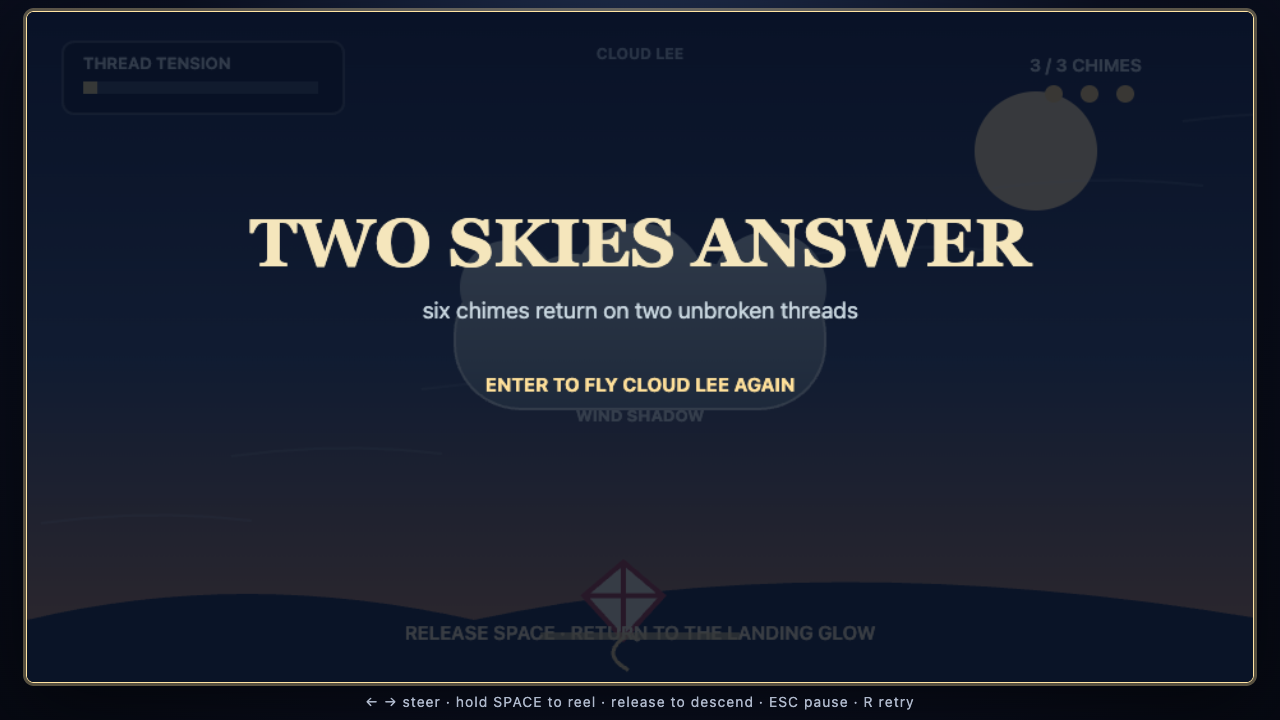
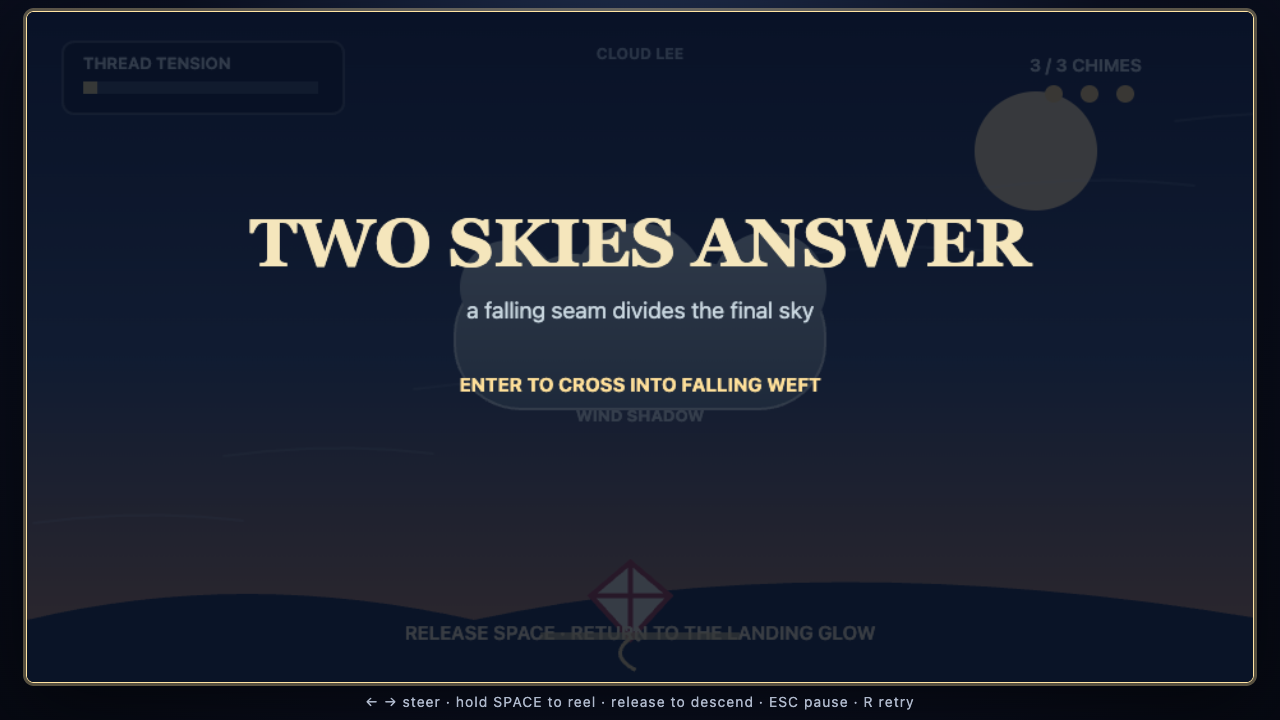
feat(ver11): add Falling Weft airspace

Changed region(s): [[0.3125, 0.3972, 0.6875, 0.4583], [0.3438, 0.5194, 0.6562, 0.55], [0.4375, 0.7944, 0.5312, 0.9472]]

diff --git a/ver11/game/src/model.js b/ver11/game/src/model.js
@@ -12,6 +12,7 @@ export const AIRSPACES = [
       { x: 405, y: 116, name: "HIGH CHIME" },
     ],
     clouds: [],
+    downdrafts: [],
     gustPush: 125,
   },
   {
@@ -23,7 +24,20 @@ export const AIRSPACES = [
       { x: 710, y: 108, name: "HIGH CHIME" },
     ],
     clouds: [{ x: 335, y: 174, width: 290, height: 172 }],
+    downdrafts: [],
     gustPush: 168,
+  },
+  {
+    name: "FALLING WEFT",
+    subtitle: "cross the sinking air without losing the line",
+    ribbons: [
+      { x: 250, y: 372, name: "LOW CHIME" },
+      { x: 735, y: 238, name: "DRIFT CHIME" },
+      { x: 250, y: 102, name: "ZENITH CHIME" },
+    ],
+    clouds: [{ x: 610, y: 156, width: 250, height: 158 }],
+    downdrafts: [{ x: 390, y: 78, width: 180, height: 350, sink: 58 }],
+    gustPush: 178,
   },
 ];
 
@@ -38,6 +52,13 @@ export function isSheltered(game) {
   return airspaceFor(game).clouds.some((cloud) => (
     game.x >= cloud.x && game.x <= cloud.x + cloud.width
     && game.y >= cloud.y && game.y <= cloud.y + cloud.height
+  ));
+}
+
+export function downdraftAt(game) {
+  return airspaceFor(game).downdrafts.find((draft) => (
+    game.x >= draft.x && game.x <= draft.x + draft.width
+    && game.y >= draft.y && game.y <= draft.y + draft.height
   ));
 }
 
@@ -70,11 +91,12 @@ export function startGame(game) {
   if (game.mode === "title" || game.mode === "lost" || game.mode === "won") {
     const nextAirspace = game.mode === "won" && game.airspace < AIRSPACES.length - 1 ? game.airspace + 1 : game.airspace;
     const fresh = createGame(nextAirspace);
-    const enteringCloudLee = nextAirspace === 1 && game.airspace !== nextAirspace;
+    const changedAirspace = game.airspace !== nextAirspace;
+    const entryMessages = ["HOLD SPACE TO CLIMB", "SILVER CLOUDS SHELTER THE THREAD", "SINKING AIR STEALS YOUR HEIGHT"];
     Object.assign(game, fresh, {
       mode: "playing",
-      message: enteringCloudLee ? "SILVER CLOUDS SHELTER THE THREAD" : "HOLD SPACE TO CLIMB",
-      messageTime: enteringCloudLee ? 3.8 : 2.8,
+      message: changedAirspace ? entryMessages[nextAirspace] : "HOLD SPACE TO CLIMB",
+      messageTime: changedAirspace ? 3.8 : 2.8,
     });
   }
   return game;
@@ -102,6 +124,7 @@ export function update(game, input, dt = FIXED_STEP) {
   const wind = windAt(game.elapsed);
   const airspace = airspaceFor(game);
   const sheltered = isSheltered(game);
+  const downdraft = downdraftAt(game);
   const steer = Math.max(-1, Math.min(1, input.steer || 0));
   const windPush = wind.phase === "gust" && !sheltered ? wind.direction * airspace.gustPush : 0;
   game.vx += (steer * 310 + windPush - game.vx * 3.8) * step;
@@ -109,10 +132,10 @@ export function update(game, input, dt = FIXED_STEP) {
   game.x = Math.max(48, Math.min(WIDTH - 48, game.x));
 
   if (input.reel) {
-    game.y -= 82 * step;
+    game.y -= (82 - (downdraft?.sink || 0)) * step;
     game.tension += (wind.phase === "gust" && !sheltered ? 0.58 : 0.13) * step;
   } else {
-    game.y += 62 * step;
+    game.y += (62 + (downdraft?.sink || 0)) * step;
     game.tension -= 0.52 * step;
   }
   game.y = Math.max(62, Math.min(488, game.y));
@@ -150,10 +173,11 @@ export function accessibleStatus(game) {
   if (game.mode === "title") return "GALE THREAD title. Press Enter to begin.";
   if (game.mode === "paused") return "Paused. Press Escape to continue.";
   if (game.mode === "lost") return "Thread parted. Press Enter or R to retry.";
-  if (game.mode === "won" && game.airspace < AIRSPACES.length - 1) return "All three chimes returned from Amber Reach. Press Enter to cross into Cloud Lee.";
-  if (game.mode === "won") return "All three chimes returned from Cloud Lee. Two skies answer. Press Enter to fly again.";
+  if (game.mode === "won" && game.airspace < AIRSPACES.length - 1) return `All three chimes returned from ${airspaceFor(game).name}. Press Enter to cross into ${AIRSPACES[game.airspace + 1].name}.`;
+  if (game.mode === "won") return "All three chimes returned from Falling Weft. Three skies answer. Press Enter to fly again.";
   const wind = windAt(game.elapsed);
   const direction = wind.direction > 0 ? "right" : "left";
   const shelter = isSheltered(game) ? " Sheltered by cloud." : "";
-  return `Flying in ${airspaceFor(game).name}. ${game.ribbons.filter(Boolean).length} of 3 chimes. Tension ${Math.round(game.tension * 100)} percent. Wind ${wind.phase}, ${direction}.${shelter}`;
+  const sinking = downdraftAt(game) ? " In sinking air." : "";
+  return `Flying in ${airspaceFor(game).name}. ${game.ribbons.filter(Boolean).length} of 3 chimes. Tension ${Math.round(game.tension * 100)} percent. Wind ${wind.phase}, ${direction}.${shelter}${sinking}`;
 }

diff --git a/ver11/game/src/main.js b/ver11/game/src/main.js
@@ -1,5 +1,5 @@
 import "./style.css";
-import { WIDTH, HEIGHT, FIXED_STEP, AIRSPACES, accessibleStatus, airspaceFor, createGame, isSheltered, retry, startGame, togglePause, update, windAt } from "./model.js";
+import { WIDTH, HEIGHT, FIXED_STEP, AIRSPACES, accessibleStatus, airspaceFor, createGame, downdraftAt, isSheltered, retry, startGame, togglePause, update, windAt } from "./model.js";
 
 const canvas = document.querySelector("#game");
 const ctx = canvas.getContext("2d");
@@ -82,6 +82,28 @@ function drawClouds() {
   }
 }
 
+function drawDowndrafts() {
+  for (const draft of airspaceFor(game).downdrafts) {
+    const gradient = ctx.createLinearGradient(draft.x, draft.y, draft.x + draft.width, draft.y);
+    gradient.addColorStop(0, "#8fbac500"); gradient.addColorStop(0.2, "#8fbac529");
+    gradient.addColorStop(0.8, "#8fbac529"); gradient.addColorStop(1, "#8fbac500");
+    ctx.fillStyle = gradient; ctx.fillRect(draft.x, draft.y, draft.width, draft.height);
+    ctx.save(); ctx.strokeStyle = "#c5edf0aa"; ctx.lineWidth = 3;
+    for (let i = 0; i < 5; i++) {
+      const x = draft.x + 25 + i * 32;
+      const offset = (game.elapsed * 90 + i * 63) % (draft.height + 55);
+      const y = draft.y - 25 + offset;
+      ctx.beginPath(); ctx.moveTo(x - 7, y - 34); ctx.quadraticCurveTo(x + 8, y - 10, x, y + 18);
+      ctx.lineTo(x - 8, y + 7); ctx.moveTo(x, y + 18); ctx.lineTo(x + 10, y + 5); ctx.stroke();
+    }
+    ctx.restore();
+    if (game.messageTime <= 0) {
+      ctx.fillStyle = "#d8f4f2"; ctx.font = "700 12px system-ui"; ctx.textAlign = "center";
+      ctx.fillText("SINKING AIR", draft.x + draft.width / 2, draft.y + 18);
+    }
+  }
+}
+
 function drawWind() {
   const wind = windAt(game.elapsed);
   if (game.mode === "title") return;
@@ -131,7 +153,8 @@ function drawHud() {
   for (let i = 0; i < 3; i++) { ctx.fillStyle = game.ribbons[i] ? "#ffd57c" : "#53617a"; ctx.beginPath(); ctx.arc(804 + i * 28, 66, 7, 0, Math.PI * 2); ctx.fill(); }
   if (game.messageTime > 0) { ctx.textAlign = "center"; ctx.fillStyle = "#fff0c7"; ctx.font = "700 18px system-ui"; ctx.fillText(game.message, WIDTH / 2, 104); }
   ctx.textAlign = "center"; ctx.fillStyle = isSheltered(game) ? "#f4fbff" : "#aebed0"; ctx.font = "700 12px system-ui";
-  ctx.fillText(`${airspaceFor(game).name}${isSheltered(game) ? " · SHELTERED" : ""}`, WIDTH / 2, 38);
+  const condition = isSheltered(game) ? " · SHELTERED" : downdraftAt(game) ? " · SINKING" : "";
+  ctx.fillText(`${airspaceFor(game).name}${condition}`, WIDTH / 2, 38);
   if (game.ribbons.every(Boolean)) { ctx.textAlign = "center"; ctx.fillStyle = "#fff0c7"; ctx.font = "600 15px system-ui"; ctx.fillText("RELEASE SPACE · RETURN TO THE LANDING GLOW", WIDTH / 2, 506); }
   ctx.fillStyle = "#f6dc93aa"; ctx.fillRect(402, 500, 156, 6);
 }
@@ -144,14 +167,15 @@ function overlay(title, subtitle, prompt) {
 }
 
 function draw() {
-  drawSky(); drawWind(); drawClouds();
+  drawSky(); drawWind(); drawDowndrafts(); drawClouds();
   airspaceFor(game).ribbons.forEach((r, i) => drawRibbon(r, game.ribbons[i], i));
   if (game.mode !== "title") { drawKite(); drawHud(); }
   if (game.mode === "title") overlay("GALE THREAD", "read the gust · mind the thread · bring three chimes home", "PRESS ENTER TO LAUNCH");
   if (game.mode === "paused") overlay("WIND HELD", "the thread waits with you", "ESC TO CONTINUE · R TO RETRY");
   if (game.mode === "lost") overlay("THREAD PARTED", "the gale took the line, not the lesson", "ENTER OR R TO TRY AGAIN");
-  if (game.mode === "won" && game.airspace < AIRSPACES.length - 1) overlay("FIRST CHIMES RETURN", "the silver cloud waits beyond the open wind", "ENTER TO CROSS INTO CLOUD LEE");
-  if (game.mode === "won" && game.airspace === AIRSPACES.length - 1) overlay("TWO SKIES ANSWER", "six chimes return on two unbroken threads", "ENTER TO FLY CLOUD LEE AGAIN");
+  if (game.mode === "won" && game.airspace === 0) overlay("FIRST CHIMES RETURN", "the silver cloud waits beyond the open wind", "ENTER TO CROSS INTO CLOUD LEE");
+  if (game.mode === "won" && game.airspace === 1) overlay("TWO SKIES ANSWER", "a falling seam divides the final sky", "ENTER TO CROSS INTO FALLING WEFT");
+  if (game.mode === "won" && game.airspace === AIRSPACES.length - 1) overlay("THREE SKIES ANSWER", "nine chimes return on three unbroken threads", "ENTER TO FLY FALLING WEFT AGAIN");
 }
 
 function frame(now) {

diff --git a/ver11/game/e2e/gale-thread.spec.js b/ver11/game/e2e/gale-thread.spec.js
@@ -16,7 +16,7 @@ async function launch(page) {
 async function pilot(page, targets, screenshotName) {
   let heldHorizontal = null;
   let reelHeld = false;
-  let shelteredEvidenceTaken = false;
+  let conditionEvidenceTaken = false;
 
   for (let step = 0; step < 600; step++) {
     const state = await snapshot(page);
@@ -32,23 +32,26 @@ async function pilot(page, targets, screenshotName) {
     }
     const cyclePhase = state.elapsed % 6;
     const gusting = cyclePhase >= 4.2;
-    const sheltered = state.airspace === 1 && state.x >= 335 && state.x <= 625 && state.y >= 174 && state.y <= 346;
+    const sheltered = (state.airspace === 1 && state.x >= 335 && state.x <= 625 && state.y >= 174 && state.y <= 346)
+      || (state.airspace === 2 && state.x >= 610 && state.x <= 860 && state.y >= 156 && state.y <= 314);
     const needClimb = count < 3 && state.y > target.y + 5;
     const shouldReel = needClimb && state.tension < (gusting && !sheltered ? 0.42 : 0.78);
     if (reelHeld !== shouldReel) {
       if (shouldReel) await page.keyboard.down("Space"); else await page.keyboard.up("Space");
       reelHeld = shouldReel;
     }
-    if (screenshotName && sheltered && gusting && !shelteredEvidenceTaken) {
+    const inDowndraft = state.airspace === 2 && state.x >= 390 && state.x <= 570 && state.y >= 78 && state.y <= 428;
+    const evidenceCondition = state.airspace === 2 ? inDowndraft : sheltered && gusting;
+    if (screenshotName && evidenceCondition && !conditionEvidenceTaken) {
       await page.screenshot({ path: evidence(screenshotName) });
-      shelteredEvidenceTaken = true;
+      conditionEvidenceTaken = true;
     }
     await page.waitForTimeout(100);
   }
   if (heldHorizontal) await page.keyboard.up(heldHorizontal);
   if (reelHeld) await page.keyboard.up("Space");
   await expect.poll(async () => (await snapshot(page)).mode).toBe("won");
-  return shelteredEvidenceTaken;
+  return conditionEvidenceTaken;
 }
 
 test("title, pause, and thread failure are keyboard reachable", async ({ page }) => {
@@ -83,5 +86,19 @@ test("the second airspace uses cloud shelter and remains keyboard-completable", 
   const sawShelter = await pilot(page, [{ x: 720, y: 382 }, { x: 245, y: 238 }, { x: 710, y: 108 }], "m2-cloud-lee-sheltered.png");
   expect(sawShelter).toBe(true);
   await page.screenshot({ path: evidence("m2-cloud-lee-won.png") });
-  await expect(page.locator("canvas")).toHaveAttribute("aria-label", /Two skies answer/);
+  await expect(page.locator("canvas")).toHaveAttribute("aria-label", /cross into FALLING WEFT/i);
+});
+
+test("the third airspace crosses sinking air and completes the M2 route", async ({ page }) => {
+  await launch(page);
+  await pilot(page, [{ x: 300, y: 382 }, { x: 690, y: 252 }, { x: 405, y: 116 }]);
+  await page.keyboard.press("Enter");
+  await pilot(page, [{ x: 720, y: 382 }, { x: 245, y: 238 }, { x: 710, y: 108 }]);
+  await page.keyboard.press("Enter");
+  await expect.poll(async () => (await snapshot(page)).airspace).toBe(2);
+  await page.screenshot({ path: evidence("m2-falling-weft-entry.png") });
+  const crossedDowndraft = await pilot(page, [{ x: 250, y: 372 }, { x: 735, y: 238 }, { x: 250, y: 102 }], "m2-falling-weft-sinking.png");
+  expect(crossedDowndraft).toBe(true);
+  await page.screenshot({ path: evidence("m2-falling-weft-won.png") });
+  await expect(page.locator("canvas")).toHaveAttribute("aria-label", /Three skies answer/);
 });

diff --git a/ver11/game/tests/model.test.js b/ver11/game/tests/model.test.js
@@ -1,6 +1,6 @@
 import test from "node:test";
 import assert from "node:assert/strict";
-import { AIRSPACES, RIBBONS, accessibleStatus, createGame, isSheltered, retry, startGame, togglePause, update, windAt } from "../src/model.js";
+import { AIRSPACES, RIBBONS, accessibleStatus, createGame, downdraftAt, isSheltered, retry, startGame, togglePause, update, windAt } from "../src/model.js";
 
 function advance(game, seconds, input = {}) {
   const steps = Math.ceil(seconds * 60);
@@ -79,6 +79,36 @@ test("Cloud Lee shelter blocks gust push and excess reel tension", () => {
 test("Cloud Lee uses a distinct reachable chime route", () => {
   const game = createGame(1); startGame(game);
   for (const ribbon of AIRSPACES[1].ribbons) {
+    game.x = ribbon.x; game.y = ribbon.y; update(game, {}, 1 / 60);
+  }
+  game.x = 480; game.y = 472; const events = update(game, {}, 1 / 60);
+  assert.equal(game.mode, "won"); assert.ok(events.some((event) => event.type === "won"));
+});
+
+test("winning Cloud Lee advances into Falling Weft", () => {
+  const game = createGame(1); startGame(game); game.mode = "won"; startGame(game);
+  assert.equal(game.mode, "playing"); assert.equal(game.airspace, 2);
+  assert.match(game.message, /SINKING AIR/);
+});
+
+test("Falling Weft downdraft makes releasing lose more height", () => {
+  const clear = createGame(2); startGame(clear); clear.x = 650; clear.y = 250;
+  const sinking = createGame(2); startGame(sinking); sinking.x = 480; sinking.y = 250;
+  assert.equal(downdraftAt(clear), undefined); assert.ok(downdraftAt(sinking));
+  advance(clear, 0.5, { reel: false }); advance(sinking, 0.5, { reel: false });
+  assert.ok(sinking.y > clear.y + 25);
+  assert.match(accessibleStatus(sinking), /sinking air/i);
+});
+
+test("Falling Weft downdraft slows climbing but does not trap the kite", () => {
+  const game = createGame(2); startGame(game); game.x = 480; game.y = 300;
+  const before = game.y; advance(game, 1, { reel: true });
+  assert.ok(game.y < before); assert.ok(game.y > before - 35);
+});
+
+test("Falling Weft chimes and landing remain reachable", () => {
+  const game = createGame(2); startGame(game);
+  for (const ribbon of AIRSPACES[2].ribbons) {
     game.x = ribbon.x; game.y = ribbon.y; update(game, {}, 1 / 60);
   }
   game.x = 480; game.y = 472; const events = update(game, {}, 1 / 60);

diff --git a/ver11/docs/status.md b/ver11/docs/status.md
@@ -5,7 +5,7 @@
 ## 現在状態
 
 - 現在版: v11.0 (`ver11/`)
-- 段階: M0・M1完了、M2進行中。第1空域から第2空域まで連続プレイ可能
+- 段階: M0・M1完了、M2進行中。全3空域を連続プレイ可能
 - 過去版変更: v10.1最終批評のみ。既存の未コミット`ver07.1/`差分を保持
 
 ## 完成条件
@@ -28,12 +28,14 @@
 - 空域の片配置、雲帯、突風強度をデータ化し、雲内判定を規則、表示、accessible nameで共有した。
 - 単体12/12、構文検査、production build、Chrome E2E 3/3に合格した。実キー入力で第1空域から第2空域へ進み、突風中に雲帯を利用して計6片を回収し着地した。
 - `m2-cloud-lee-entry.png`、`m2-cloud-lee-sheltered.png`、`m2-cloud-lee-won.png`を目視し、風線を遮る雲、`SHELTERED`表示、片、凧、糸、終結果に欠けや判別不能がないことを確認した。
+- 第3空域「FALLING WEFT」を追加した。中央の下降気流では巻き上げが鈍り、解放中は約2倍の速さで下降するため、張力を逃がす安全入力にも高度の代償が生まれる。右上の雲帯と左右交互の片配置により、既存規則を同時に使う。
+- 単体16/16、構文検査、production build、Chrome E2E 4/4に合格した。実キー入力で3空域9片、雲帯、下降気流横断、最終着地まで通した。
+- `m2-falling-weft-entry.png`、`m2-falling-weft-sinking.png`、`m2-falling-weft-won.png`を目視し、下降矢印、雲、片、凧、糸、状態、最終結果を判別できることを確認した。導入文と常設ラベルの重なりは、導入中に常設ラベルを隠して解消した。
 
 ## 未解決課題
 
-- 2空域だけで、雲帯を理解した後の第3段階がない。
 - 音量と動き軽減、進行保存は未実装。
 
 ## 次の最優先作業
 
-M2第3空域を設計する。既存の予告・張力・雲帯を組み合わせつつ、新規則は下降気流の通路一つに絞り、緩めて安全を取る入力にも位置取りの代償を持たせる。
+M2の設定と保存を実装する。音量・動き軽減をキーボードで変更できる設定画面と、到達済み空域・設定のlocalStorage保存、破損時の安全な初期化を一つの製品機能として検証する。

diff --git a/ver11/README.md b/ver11/README.md
@@ -6,8 +6,8 @@
 
 - M0 白紙企画比較・独立性確認: 完了
 - M1 中核縦切り: 完了。1空域、突風予告、張力、3片、帰還、切断、再挑戦を実装・検証済み
-- M2 段階導入: 進行中。第2空域「CLOUD LEE」と横風を遮る雲帯を実装済み
-- 単体12/12、構文検査、production build、Chrome E2E 3/3に合格
+- M2 段階導入: 進行中。3空域を連続プレイでき、雲帯と下降気流を実装済み
+- 単体16/16、構文検査、production build、Chrome E2E 4/4に合格
 
 ## 起動
 
@@ -17,9 +17,9 @@ npm install
 npm run dev
 ```
 
-Enterで開始する。左右キーまたはA/Dで凧を操り、Spaceを押している間は糸を巻いて上昇する。Spaceを離すと糸を緩めて下降する。空の帯に表示される突風予告中に進路を整え、突風が吹いている間は巻き続けない。三つの風鈴片を集めたら、地上中央の着地点へ降りる。第2空域では銀色の雲帯へ入ると突風を遮れる。Escapeでポーズ、Rで再挑戦する。
+Enterで開始する。左右キーまたはA/Dで凧を操り、Spaceを押している間は糸を巻いて上昇する。Spaceを離すと糸を緩めて下降する。空の帯に表示される突風予告中に進路を整え、突風が吹いている間は巻き続けない。三つの風鈴片を集めたら、地上中央の着地点へ降りる。第2空域では銀色の雲帯へ入ると突風を遮れる。第3空域では下降気流の矢印帯を横切る間、上昇が鈍り、糸を緩めると高度を速く失う。Escapeでポーズ、Rで再挑戦する。
 
-`npm run verify`で規則テスト、構文検査、production build、Chrome E2Eをまとめて実行する。E2Eは実キー入力でポーズ、糸切断、再挑戦、第1・第2空域の6片回収、雲帯利用、着地までを検証する。
+`npm run verify`で規則テスト、構文検査、production build、Chrome E2Eをまとめて実行する。E2Eは実キー入力でポーズ、糸切断、再挑戦、全3空域の9片回収、雲帯利用、下降気流横断、着地までを検証する。
 
 ## 独立性
 

diff --git a/ver11/docs/log.md b/ver11/docs/log.md
@@ -19,3 +19,10 @@
 - 空域データ、勝利後の連続遷移、雲内の横力・追加張力遮断、銀青の雲描画、`SHELTERED` HUDとaccessible nameを実装した。
 - 単体12/12、構文検査、production build、Chrome E2E 3/3に合格した。実キー適応操縦で第1空域の3片を帰還後、第2空域へ進み、突風中に雲帯へ入ってさらに3片を回収・帰還した。
 - 第2空域の入口、突風中の雲内、勝利を撮影して目視した。雲は背後の風線を遮り、安全地帯の形と状態表示を色だけに依存せず判別できる。第2空域を完了し、次は下降気流を一規則だけ加えた第3空域を作る。
+
+## 2026-11-06 — M2 第3空域 FALLING WEFT
+
+- 新規則を中央の下降気流帯一つに限定した。帯内では巻いても上昇が遅く、緩めると通常のほぼ2倍で下降する。左右交互の3片で帯を横断させ、突風から張力を逃がす入力と高度維持を競合させた。
+- 右上に雲帯を併設し、既存の突風予告、張力、風下の安全地帯を同時に使う第3段階へ発展させた。下降矢印、帯、HUD、accessible nameから同じ領域判定を伝える。
+- 単体16/16、構文検査、production build、Chrome E2E 4/4に合格した。実キー入力で第1空域から全9片を回収し、下降気流を横断して最終着地まで約52秒で通した。
+- 入口、下降気流内、最終勝利を撮影して目視した。導入文と常設ラベルの重なりを発見し、導入中だけ常設ラベルを隠して修正した。次は音量・動き軽減設定と進行保存を実装する。

diff --git a/ver11/docs/01-game-design.md b/ver11/docs/01-game-design.md
@@ -30,3 +30,10 @@
 - 低空右、中空左、高空右へ片を置き、直行するか中央の風下へ寄って安全に巻くかを選ばせる。
 - 風は第1空域より強くし、雲を単なる背景でなく経路上の安全地帯にする。
 - 雲内はHUDの`SHELTERED`、雲上の`WIND SHADOW`、動的accessible nameで色以外にも伝える。
+
+## M2 第3空域: FALLING WEFT
+
+- 中央を縦に貫く下降気流帯と、右上の雲帯を同時に配置する。
+- 下降気流内では巻き上げによる上昇が遅くなり、糸を緩めると通常のほぼ2倍の速度で高度を失う。
+- 左低空、右中空、左高空の順で片を置き、中央帯を最低2回横断させる。突風に対して緩める安全策にも、高度を失う位置取りの代償が生まれる。
+- 下降矢印、半透明の帯、`SINKING AIR`、HUDの`SINKING`、動的accessible nameで状態を色以外にも伝える。

diff --git a/ver11/docs/03-technical-design.md b/ver11/docs/03-technical-design.md
@@ -11,7 +11,7 @@
 
 ゲーム状態に経過時間、風フェーズ、位置、速度、張力、回収状態を保持する。乱数はM1で使わない。ブラウザ側は最大追いつき回数を制限し、背景復帰時に時間を捨てる。
 
-空域ごとの片配置、雲矩形、突風の横力は`AIRSPACES`へデータとして置く。雲矩形内では突風の横力と巻き上げ時の追加張力を無効化し、同じ判定を規則、描画、accessible nameから参照する。
+空域ごとの片配置、雲矩形、下降気流矩形、突風の横力は`AIRSPACES`へデータとして置く。雲矩形内では突風の横力と巻き上げ時の追加張力を無効化する。下降気流矩形内では上昇速度から下降速度を差し引き、解放中の下降へ加算する。同じ領域判定を規則、描画、accessible nameから参照する。
 
 ## 座標
 

diff --git a/ver11/docs/04-quality-plan.md b/ver11/docs/04-quality-plan.md
@@ -13,6 +13,9 @@
 - 雲内外で突風の横力と張力差が規則テストに現れる。
 - 実キー入力だけで雲帯へ入り、第2空域の3片と着地まで到達する。
 - 入口、突風中の雲内、勝利画面を目視し、雲が風線を遮り`SHELTERED`が読める。
+- 第2空域から第3空域へ連続遷移し、下降気流内外の上昇・下降速度差が規則テストに現れる。
+- 実キー入力だけで下降気流を横断し、全9片と最終着地まで到達する。
+- 第3空域の入口、下降気流内、最終勝利を目視し、下降矢印、雲、片、凧、糸、状態表示が判別できる。
 
 ## 完成時ゲート
 
